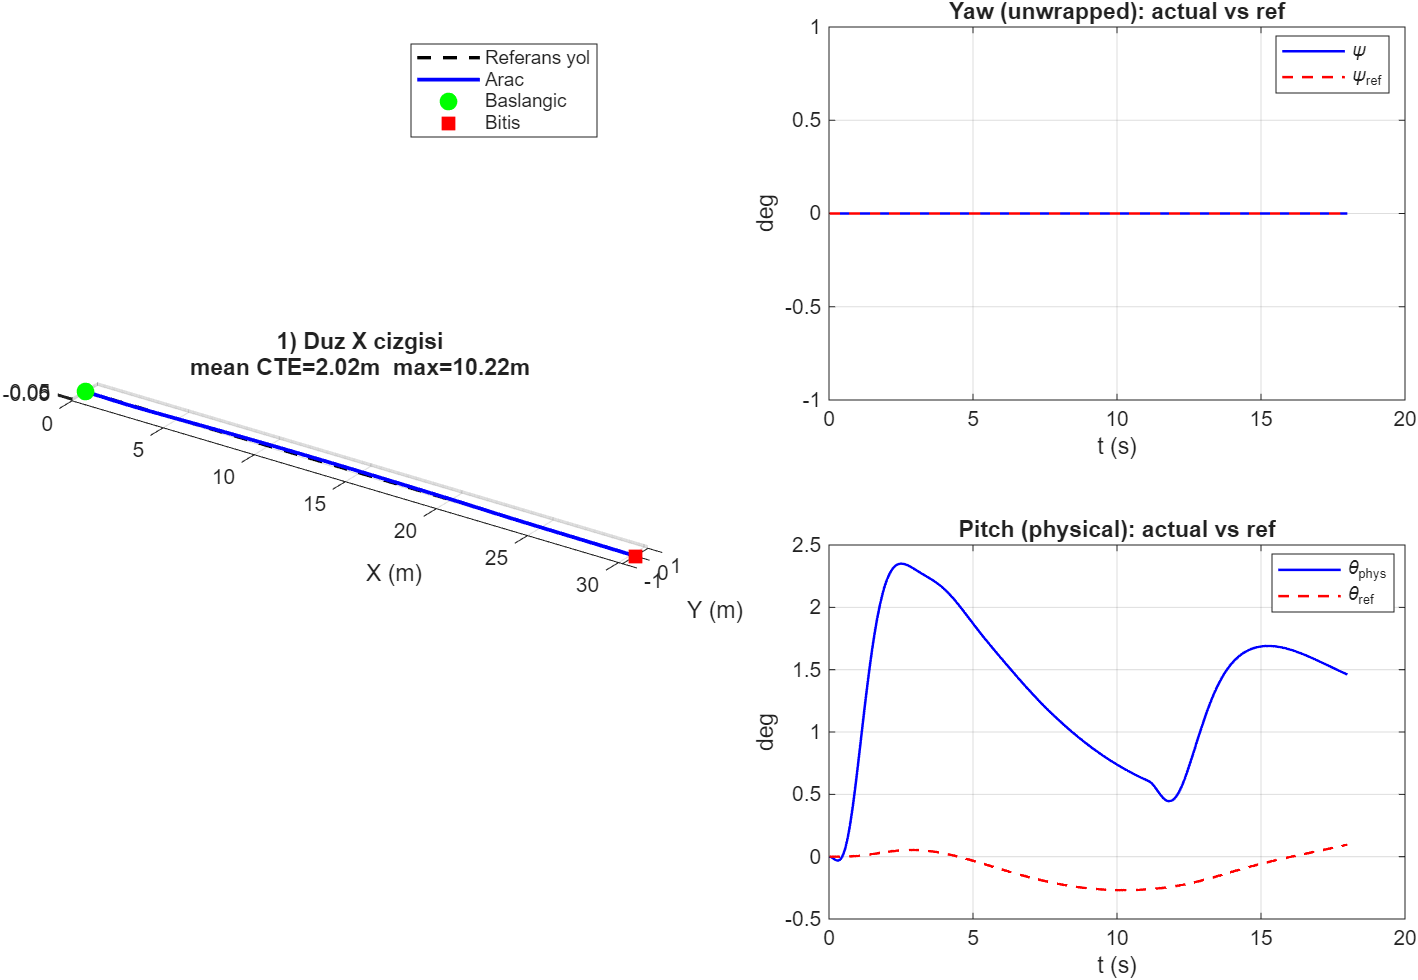
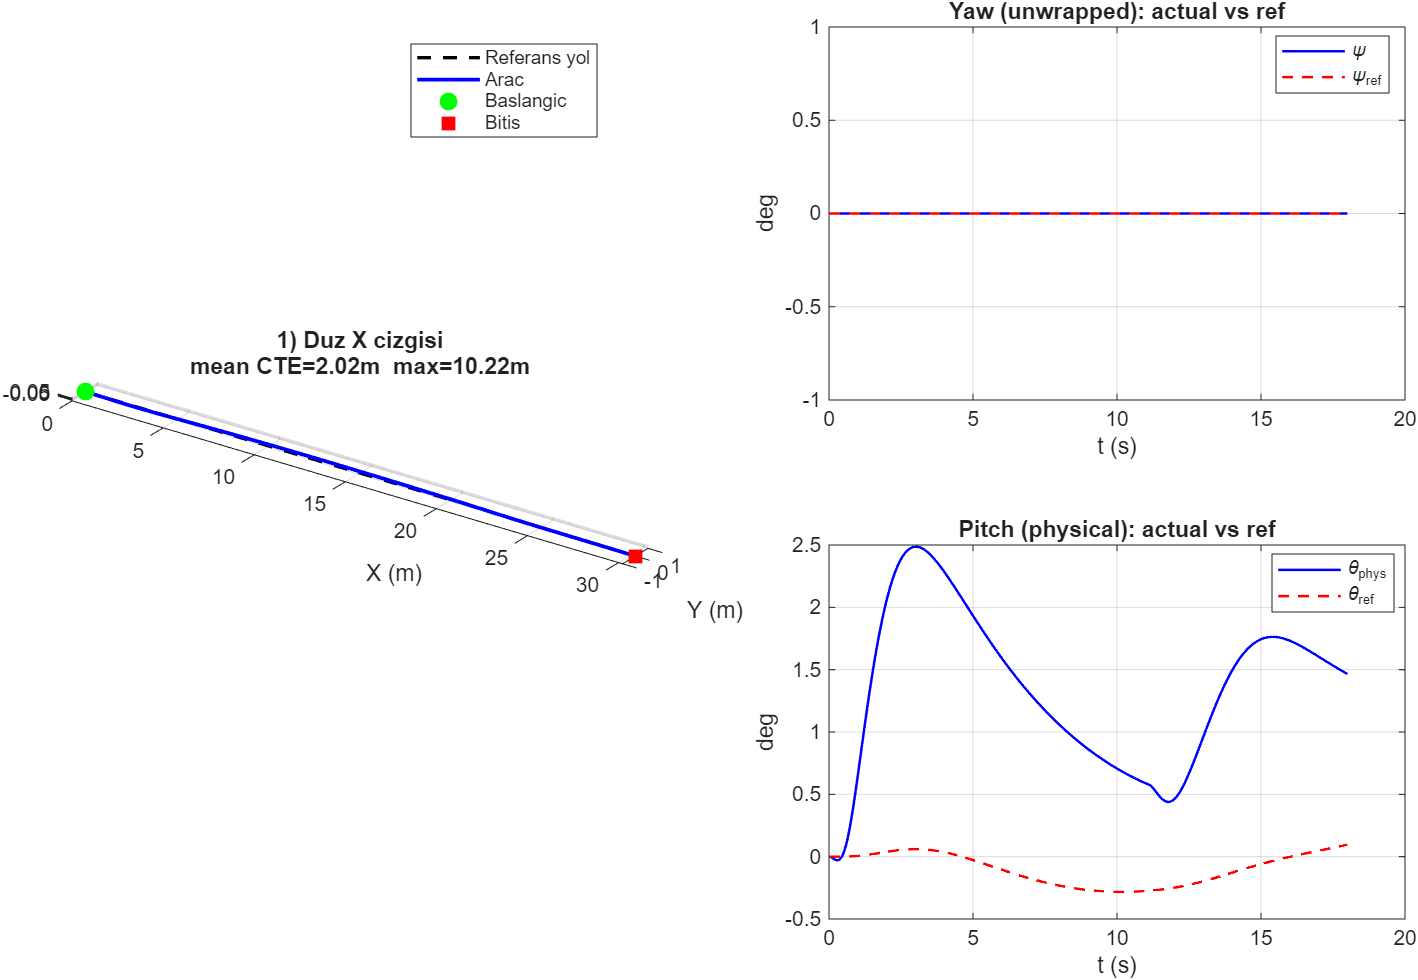
T2B-2: rate filter tau/4
Further reduce pitch-rate LPF tau (~0.18 s); improves rate/filt correlation with stable chatter and CTE.

diff --git a/init_parameters.m b/init_parameters.m
@@ -55,7 +55,7 @@ function init_parameters()
     % Rate LPF physical time constant: preserve a=0.90 at old dt=0.075
     %   rate_filt = 0.90*prev + 0.10*raw  =>  tau = -dt/ln(0.90)
     tau_rate0 = -0.075 / log(0.90);  % ≈ 0.712 s (legacy a=0.90 @ dt=0.075)
-    tau_rate = tau_rate0 / 4;        % T2B-2: tau/4
+    tau_rate = 0.05;                 % T2B-3: tens-of-ms lag region
 
     % Cascaded pitch: mid gains + rate damping
     Kp_angle = 1.25;   % [1/s]  e_theta -> rate cmd

diff --git a/suite_results/T2B2_RESULTS.md b/suite_results/T2B2_RESULTS.md
@@ -1,0 +1,15 @@
+# T2B-2 — rate filter tau/4
+
+`tau_rate = tau0/4 ≈ 0.1780 s`
+
+## X-line (T2B-1 → T2B-2)
+
+| Metric | T2B-1 | T2B-2 |
+|--------|------:|------:|
+| chatter | 0.109 | **0.108** |
+| de jitter | 0.469 | **0.401** |
+| corr | 0.894 | **0.984** |
+| lag est | 0.075 | 0.000 |
+| CTE | 2.017 | 2.018 |
+
+Slightly cleaner filter tracking; chatter already saturated near floor. **KEEP / proceed to tens-of-ms**.
